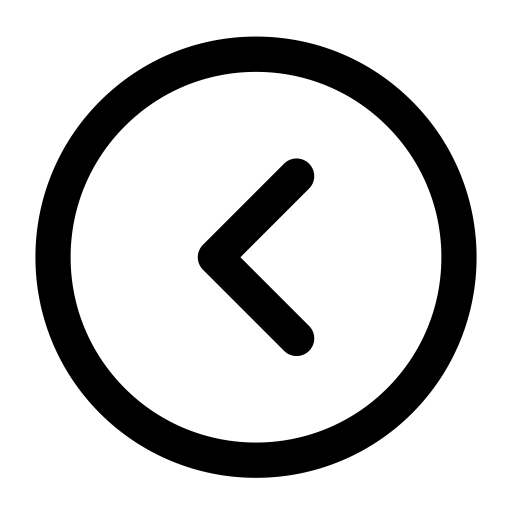
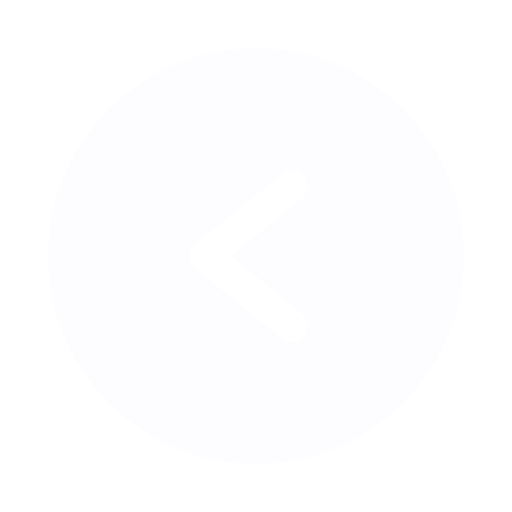
feat: add conditional rendering of play buttons based on taps

Changed region(s): [[0.0625, 0.0625, 0.9375, 0.9375], [0.375, 0.3125, 0.625, 0.7188]]

diff --git a/components/PlayButton.js b/components/PlayButton.js
@@ -1,35 +1,83 @@
 import { Pressable, StyleSheet, Image } from 'react-native';
-import React from 'react';
+import React, { useEffect } from 'react';
+import { useBeatContext } from '../context';
+import Animated, {
+  useSharedValue,
+  useAnimatedStyle,
+  withTiming,
+} from 'react-native-reanimated';
+
 export default PlayButton = ({ icon, setter }) => {
   const size = icon === 'play' ? 80 : 65;
   const top = icon === 'play' ? 0 : 20;
+  const { isTapped } = useBeatContext();
+  const scale = useSharedValue(0.5);
+  const hidden = useSharedValue(0.5);
+  const opacity = useAnimatedStyle(() => {
+    return {
+      opacity: hidden.value,
+    };
+  });
+  const animated = useAnimatedStyle(() => {
+    return {
+      width: size,
+      transform: [{ scale: scale.value }],
+    };
+  });
+  function pop() {
+    if (!isTapped) {
+      hidden.value = withTiming(0.5);
+    } else {
+      hidden.value = withTiming(1);
+    }
+    scale.value = withTiming(0.75, { duration: 150 });
+    setTimeout(() => {
+      scale.value = withTiming(1, { duration: 150 });
+    }, 150);
+  }
+
+  useEffect(() => {
+    pop();
+  }, [isTapped]);
   return (
-    <Pressable
-      style={[styles.button]}
-      onPress={() => {
-        if (icon === 'close') {
-          setter();
-        } else setter(false);
-      }}>
-      <Image
-        source={
-          icon === 'play'
-            ? require('../assets/play.png')
-            : icon === 'close'
-            ? require('../assets/add-new.png')
-            : require('../assets/add-new.png')
+    <Animated.View style={icon === 'save' ? [opacity, animated] : animated}>
+      <Pressable
+        style={[styles.button]}
+        onPress={() => {
+          if (icon === 'close') {
+            setter();
+          } else setter(false);
+        }}>
+        {
+          <Image
+            source={
+              icon === 'play' && isTapped
+                ? require('../assets/play-white.png')
+                : icon === 'play'
+                ? require('../assets/play.png')
+                : icon === 'close' && isTapped
+                ? require('../assets/back.png')
+                : icon === 'close'
+                ? require('../assets/add-new.png')
+                : require('../assets/add-new.png')
+            }
+            style={[
+              {
+                height: size,
+                width: size,
+                top: top,
+              },
+              icon === 'close'
+                ? isTapped
+                  ? { width: 75, height: 75 }
+                  : { transform: [{ rotate: '45deg' }] }
+                : '',
+              styles.image,
+            ]}
+          />
         }
-        style={[
-          icon === 'close' && { transform: [{ rotate: '45deg' }] },
-          {
-            height: size,
-            width: size,
-            top: top,
-          },
-          styles.image,
-        ]}
-      />
-    </Pressable>
+      </Pressable>
+    </Animated.View>
   );
 };
 
@@ -38,12 +86,7 @@ const styles = StyleSheet.create({
     justifyContent: 'center',
     alignItems: 'center',
   },
-  text: {
-    fontSize: 40,
-    fontWeight: 'bold',
-  },
   image: {
     borderRadius: 50,
-    backgroundColor: 'black',
   },
 });

diff --git a/context/index.js b/context/index.js
@@ -11,10 +11,14 @@ const BeatContext = createContext({
   listen: () => {},
   reset: () => {},
   beat: {},
+  taps: [],
+  isTapped: false,
+  setIsTapped: () => {},
 });
 
 export const BeatProvider = ({ children }) => {
   const [beat, setBeat] = useState({});
+  const [isTapped, setIsTapped] = useState(false);
   /* ---> variables for listen function <--- */
   /* ---> using useRef to prevent rerendering(?) <--- */
   const tapNum = useRef(0);
@@ -32,12 +36,14 @@ export const BeatProvider = ({ children }) => {
       tapNum.current = 0;
       timeArr.current = [];
       taps.current = [];
+      setIsTapped(false);
       return true;
     }
   }
 
   return (
-    <BeatContext.Provider value={{ listen, reset, beat }}>
+    <BeatContext.Provider
+      value={{ listen, reset, beat, taps, isTapped, setIsTapped }}>
       {children}
     </BeatContext.Provider>
   );

diff --git a/animation/LogoIcon.js b/animation/LogoIcon.js
@@ -9,7 +9,7 @@ import { useBeatContext } from '../context';
 
 import MenuModal from '../screens/MenuModal';
 export default LogoIcon = ({ setIsLibrary, setIsPlay, isPlay }) => {
-  const beat = useBeatContext();
+  const { listen, setIsTapped } = useBeatContext();
   const [isPressed, setIsPressed] = useState(false);
   const [isBlack, setIsBlack] = useState(false);
   const [isModal, setIsModal] = useState(false);
@@ -65,7 +65,9 @@ export default LogoIcon = ({ setIsLibrary, setIsPlay, isPlay }) => {
     setIsPressed(!isPressed);
   }
   function dance() {
-    beat.listen();
+    listen();
+    // to switch rendering of back button
+    setIsTapped(true);
     scale.value = withTiming(0.85, { duration: 50 });
     setTimeout(() => {
       scale.value = withTiming(1, { duration: 50 });

diff --git a/screens/PlayButtonsView.js b/screens/PlayButtonsView.js
@@ -35,15 +35,9 @@ export default PlayButtonsView = ({ setIsPlay }) => {
   });
   return (
     <Animated.View style={[styles.container, container]}>
-      <Animated.View>
-        <PlayButton icon="save" />
-      </Animated.View>
-      <Animated.View>
-        <PlayButton icon="play" />
-      </Animated.View>
-      <Animated.View>
-        <PlayButton icon="close" setter={unmountContainer} />
-      </Animated.View>
+      <PlayButton icon="save" />
+      <PlayButton icon="play" />
+      <PlayButton icon="close" setter={unmountContainer} />
     </Animated.View>
   );
 };
